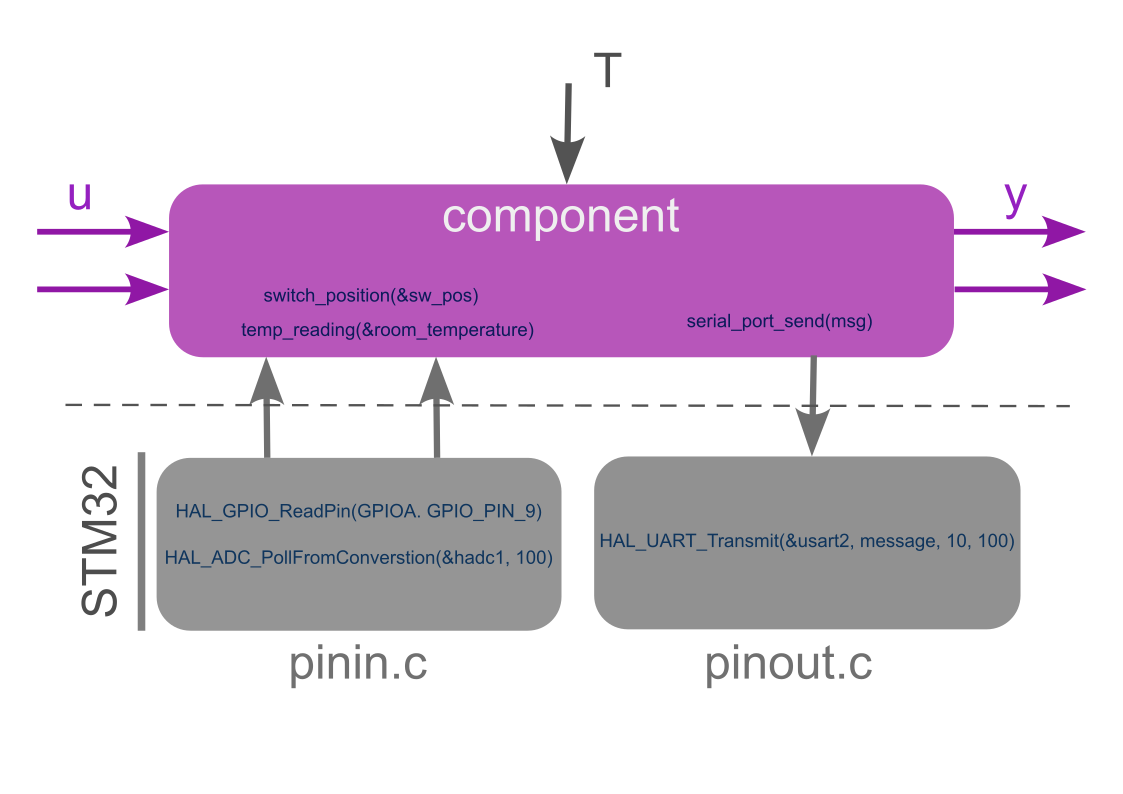
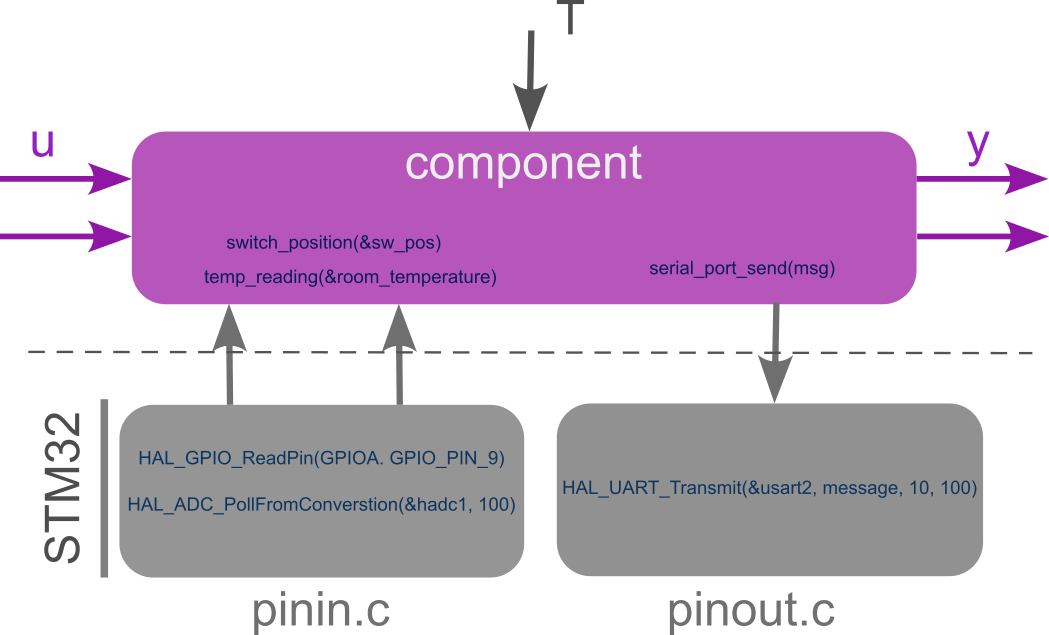
.

diff --git a/README.md b/README.md
@@ -30,7 +30,7 @@ The OS used is FreeRTOS.
 <!-- *Cazzo figa culo deretano* -->
 
 <div align="center">
-  <img src="./Architecture.svg" alt="Image Alt Text" />
+  <img src="./Architecture.png" alt="Image Alt Text" />
   <p><em>Caption: Your caption text here</em></p>
 </div>
 
@@ -146,7 +146,7 @@ no time to go through that.
 <!-- ![Pinin and pinout](pinin_pinout.png) -->
 
 <div align="center">
-  <img src="./pinin_pinout.svg" alt="Image Alt Text" />
+  <img src="./pinin_pinout.png" alt="Image Alt Text" />
   <p><em>Caption: Your caption text here</em></p>
 </div>
 
